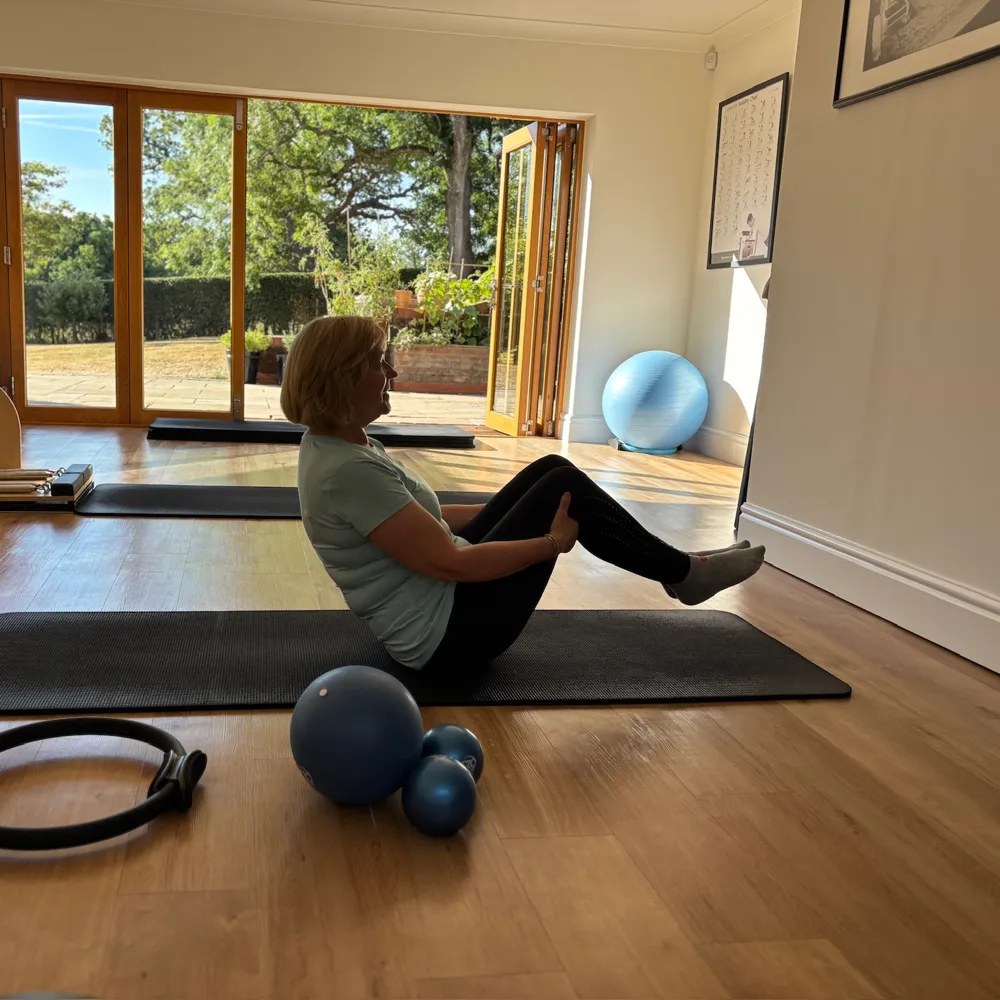
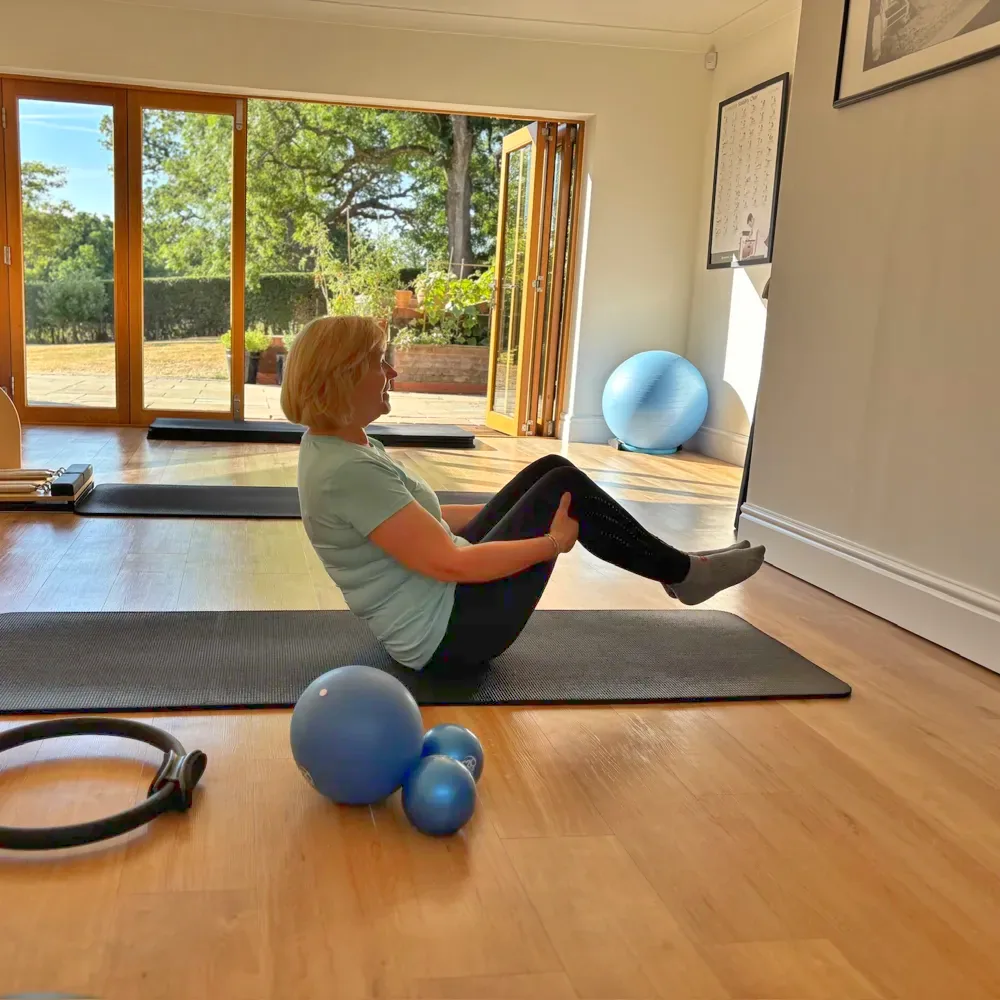
Square the film shelf, lead on Suzannah, and take the studio inside
Client Stories loses its weave: the shelf's second and fourth columns
hung a step lower than the first and third, and the films now sit in a
rigid parallel grid. A row of clients' faces is a set of equals. The
reveal delays still settle each row left to right, which is the rhythm
the stagger was reaching for and costs the alignment nothing.

Suzannah moves to the head of the list, which is the lead slot and so
the head of the page.

The Studham Studio gallery gains the treatment couch as a fifth frame —
that set is the room, and it showed only mats, machines and the outside
of the building while the lead sentence is about the space turning from
a Pilates studio into a treatment clinic.

The studio hero is now the room itself rather than the way into it: the
mats laid out with the magic circles, doors closed onto the terrace,
crop back to centre since the 62% nudge belonged to the old photograph.
Its 1600 and 2400 candidates are Upscayl remacri-4x from the 1000, the
one thing on the page not straight off a camera and marked as such in
the source — the original is not in the repo and was not found on this
machine.

The mat photograph is lightened, and by region rather than by curve. It
is shot into the open doors, so the camera exposed for the daylight and
left the near half of the room in shade. scripts/shadow-lift.py drives
the lift off a blurred luminance map, so the shade is raised and the
garden and sunlit wall are left where the camera put them.

diff --git a/src/site-content.js b/src/site-content.js
@@ -1144,6 +1144,35 @@ function buildPilatesContinuousPage() {
                one session, the plate included in the count. -->
           <div class="pilates-feature__media pilates-gallery" style="--frame-count: 4" data-reveal data-drift data-equipment-gallery>
             <figure class="pilates-feature__shot pilates-gallery__plate">
+              <!-- Lightened 21 Aug 2026 at Harry's request. Shot straight
+                   into the open garden doors, so the camera exposed for the
+                   daylight behind her and left the client, the mat and the
+                   whole near half of the room sitting in shadow.
+
+                   Not a global curve. A first pass at gamma 1.25 lifted the
+                   whole frame, which does brighten her but pays for it by
+                   washing the garden and the sunlit wall that were correctly
+                   exposed already. This is scripts/shadow-lift.py at 0.85:
+                   the lift is driven by a heavily blurred luminance map, so
+                   its strength follows which REGION of the room is in shade
+                   rather than which pixel is dark. Deep shade gets a gamma
+                   near 1.85, anything already mid-bright gets nothing, and
+                   the two are joined by a smoothstep. Blur radius is 4.5% of
+                   the frame — wide enough that no halo forms round the door
+                   frames, which is the failure mode of a tighter mask.
+
+                   Result: the near floor, her face and the near mats come
+                   up; the garden, the lit doorway and the sunlit wall are
+                   left where the camera put them. The darkest 5% of the
+                   frame moved from 14 to 32 while highlight clipping went
+                   0.58% to 0.71%. Stopped at 0.85 — 1.05 was tried and
+                   starts greying the mats.
+
+                   Applied to all three files at the same strength, and the
+                   mask radius is a fraction of the frame rather than a fixed
+                   pixel count, so every size gets the same treatment and the
+                   srcset cannot switch brightness mid-page. Originals are in
+                   git if it wants backing off. -->
               <img data-drift-lag="0.025" data-gallery-plate data-small="/images/pilates/mat-ab-curl-500.webp" data-large="/images/pilates/mat-ab-curl-1000.webp" data-xl="/images/pilates/mat-ab-curl-1536.webp" data-xl-width="1536" src="/images/pilates/mat-ab-curl-1000.webp" srcset="/images/pilates/mat-ab-curl-500.webp 500w, /images/pilates/mat-ab-curl-1000.webp 1000w, /images/pilates/mat-ab-curl-1536.webp 1536w" sizes="(max-width: 960px) 92vw, 52vw" alt="A client holding a curled sit up position on the mat, legs lifted, the studio's garden doors folded open behind her" width="1000" height="1000" loading="lazy">
               <button class="pilates-gallery__arrow pilates-gallery__arrow--prev" type="button" data-gallery-step="-1" aria-label="Previous mat Pilates photograph" hidden>←</button>
               <button class="pilates-gallery__arrow pilates-gallery__arrow--next" type="button" data-gallery-step="1" aria-label="Next mat Pilates photograph" hidden>→</button>
@@ -1531,23 +1560,52 @@ function buildStudioContinuousPage() {
       "The NJH Sports Therapy and Pilates studio in Studham, near Whipsnade.",
     canonical: "/studio",
     html: `<div class="clinics-longform">
-      <!-- The hero is the terrace photograph: in through the folded-open
-           doors from the same spot the room is entered. It stood alone here
-           until a looping cut of NJH's promotional film was laid over it, and
-           it stands alone again — the film is out at Harry's request. If it is
-           ever wanted back, the markup was one <video class="clinics-hero__reel">
-           over this <img>, driven by initStudioReel(); the encoded files are
-           still in public/videos (studio-tour.mp4 and the 640 phone cut).
+      <!-- The hero is the room laid out for a class, seen from the far end
+           with a magic circle and weighted balls on each mat and the folding
+           doors closed onto the terrace. Harry's pick, 21 Aug 2026. It
+           replaces the terrace photograph, the view in through the folded
+           doors from outside. That view of the building is not lost: the
+           gallery below closes on studio-dusk, the same terrace after dark.
+           The hero's own files (studio-hero-800/1600/2400.webp) are now
+           referenced from nowhere and kept in public/images against the day
+           somebody wants the outside back at the top.
 
-           The still ships as its whole 4:3 frame rather than pre-cropped:
+           Inside beats outside at the top of a page about a room. The old
+           hero showed a visitor the doors they would walk through; this one
+           shows them what is on the other side of them, which is the thing
+           they are deciding about.
+
+           Before that it carried a looping cut of NJH's promotional film,
+           out at Harry's request. If it is ever wanted back, the markup was
+           one <video class="clinics-hero__reel"> over this <img>, driven by
+           initStudioReel(); the encoded files are still in public/videos
+           (studio-tour.mp4 and the 640 phone cut).
+
+           The still ships as its whole square frame rather than pre-cropped:
            it is object-fit: cover, so every viewport cuts its own window, and
-           4:3 has the height a phone's tall window needs where a 16:9 pre-crop
-           would have run out. The stylesheet nudges that window right of
-           centre so a narrow screen keeps the lit doorway rather than the tree
-           beside it — see .clinics-hero__still. -->
+           1:1 has even more of the height a phone's tall window needs than
+           the 4:3 terrace frame did. The stylesheet's right-of-centre nudge
+           went with the old photograph — see .clinics-hero__still.
+
+           RESOLUTION, and the one thing on this page that is not straight
+           off a camera. The photograph exists at 1000px and no larger — the
+           original is not in the repo and was not found on this machine, and
+           1000px full bleed is soft on a wide desktop. So the 1600 and 2400
+           candidates in the srcset are Upscayl remacri-4x from the 1000,
+           resampled down from its 4000px output, which is the same treatment
+           the site's other undersized photographs have had.
+
+           This is the exception to the no-upscaling line the home page's
+           studio band states, and it is marked here rather than quietly
+           taken: a hero is the one frame on the page big enough for the
+           difference to show. The room takes it well — flat walls, a plain
+           floor, no faces and no fine text in the frame — but it is still a
+           guess at detail the camera recorded and nobody has. If the original
+           turns up, re-cut 1600 and 2400 from it, overwrite these two files
+           and delete this paragraph. -->
       <section class="clinics-hero" id="overview" aria-labelledby="clinics-title">
         <div class="clinics-hero__media" aria-hidden="true">
-          <img class="clinics-hero__still" src="/images/studio-hero-1600.webp" srcset="/images/studio-hero-800.webp 800w, /images/studio-hero-1600.webp 1600w, /images/studio-hero-2400.webp 2400w" sizes="100vw" alt="" width="1600" height="1248" fetchpriority="high" />
+          <img class="clinics-hero__still" src="/images/pilates/room-rings-1600.webp" srcset="/images/pilates/room-rings-500.webp 500w, /images/pilates/room-rings-1000.webp 1000w, /images/pilates/room-rings-1600.webp 1600w, /images/pilates/room-rings-2400.webp 2400w" sizes="100vw" alt="" width="1600" height="1600" fetchpriority="high" />
           <div class="clinics-hero__scrim"></div>
         </div>
         <div class="clinics-hero__inner">
@@ -1600,15 +1658,30 @@ function buildStudioContinuousPage() {
             </dl>
             <a class="pilates-arrow-link" href="#reformer">See what is in the room <span>→</span></a>
           </div>
-          <!-- The third gallery: four photographs of the room itself, the
-               corner row three frames like the Reformer's below. The mat
-               layouts from either end came first; the shoot of August 2026
-               added the room seen from the open doors with both machines
-               standing in it, and the building from the terrace at dusk —
-               the hero's view, after dark. Square like every frame in these
-               galleries: the dusk photograph is cut down to the doorway and
-               the lit room, the fuchsias kept as its near corner. -->
-          <div class="pilates-feature__media pilates-gallery" style="--frame-count: 4" data-reveal data-drift data-equipment-gallery>
+          <!-- The third gallery: five photographs of the room itself, the
+               corner row four frames. The mat layouts from either end came
+               first; the shoot of August 2026 added the room seen from the
+               open doors with both machines standing in it, and the building
+               from the terrace at dusk — the hero's view, after dark. Square
+               like every frame in these galleries: the dusk photograph is cut
+               down to the doorway and the lit room, the fuchsias kept as its
+               near corner.
+
+               The treatment couch joined the row on 21 Aug 2026. This gallery
+               is the room, not the mat work, and a set that showed only mats,
+               machines and the outside of the building left out the half of
+               the room the lead sentence above is about — the space turning
+               from a Pilates studio into a treatment clinic.
+
+               couch-posters, Harry's pick: the couch made up with its rolled
+               towels, taken from far enough back to carry the charts, the
+               sink, the window and the clock. It is the widest, most made-up
+               view of the treatment corner, which is what this row wants —
+               #physio-couch below leads on couch-window, the tighter one, so
+               the two rows are not the same photograph twice. Its file lives
+               in public/images/therapy with the rest of the couch's, not in
+               pilates with the room's. -->
+          <div class="pilates-feature__media pilates-gallery" style="--frame-count: 5" data-reveal data-drift data-equipment-gallery>
             <figure class="pilates-feature__shot pilates-gallery__plate">
               <img data-drift-lag="0.025" data-gallery-plate data-small="/images/pilates/room-rings-500.webp" data-large="/images/pilates/room-rings-1000.webp" data-xl="/images/pilates/room-rings-1000.webp" data-xl-width="1000" src="/images/pilates/room-rings-1000.webp" srcset="/images/pilates/room-rings-500.webp 500w, /images/pilates/room-rings-1000.webp 1000w" sizes="(max-width: 960px) 92vw, 52vw" alt="The room from the other end, mats laid out with a magic circle and weighted balls on each, the folding doors closed onto the terrace" width="1000" height="1000" loading="lazy">
               <button class="pilates-gallery__arrow pilates-gallery__arrow--prev" type="button" data-gallery-step="-1" aria-label="Previous photograph of the room" hidden>←</button>
@@ -1620,6 +1693,9 @@ function buildStudioContinuousPage() {
               </button>
               <button type="button" class="pilates-gallery__pick" data-gallery-pick>
                 <img data-small="/images/pilates/room-machines-500.webp" data-large="/images/pilates/room-machines-1000.webp" data-xl="/images/pilates/room-machines-1536.webp" data-xl-width="1536" src="/images/pilates/room-machines-500.webp" alt="The room from the open garden doors, mats down the centre and the Reformer and Stability Chair standing ready beyond them" width="500" height="500" loading="lazy">
+              </button>
+              <button type="button" class="pilates-gallery__pick" data-gallery-pick>
+                <img data-small="/images/therapy/couch-posters-500.webp" data-large="/images/therapy/couch-posters-1000.webp" data-xl="/images/therapy/couch-posters-1536.webp" data-xl-width="1536" src="/images/therapy/couch-posters-500.webp" alt="The room set up for treatment, the hydraulic couch made up with rolled towels, the muscular and skeletal charts on the wall and the clock above the window" width="500" height="500" loading="lazy">
               </button>
               <button type="button" class="pilates-gallery__pick" data-gallery-pick>
                 <img data-small="/images/pilates/studio-dusk-500.webp" data-large="/images/pilates/studio-dusk-1000.webp" data-xl="/images/pilates/studio-dusk-1536.webp" data-xl-width="1536" src="/images/pilates/studio-dusk-500.webp" alt="The studio from the terrace at dusk, the garden doors folded open onto the lit room, fuchsias in the foreground" width="500" height="500" loading="lazy">

diff --git a/src/style.css b/src/style.css
@@ -5359,12 +5359,16 @@ body:has(.home-hero, .cv__hero, .clinics-hero)
   pointer-events: none;
 }
 
-/* The photograph ships as its full 4:3 frame and this is where each screen's
-   window is cut. 62% and not center: a phone's tall window keeps barely a
-   third of the width, and dead centre that third is mostly the bay tree —
-   biased right it is the open doorway with the lit room behind it, which is
-   the picture. Desktop shows the full width either way, so the bias costs
-   the wide screens nothing. */
+/* The photograph ships as its full frame and this is where each screen's
+   window is cut.
+
+   Centred, since 21 Aug 2026. It used to be 62%, which belonged to the
+   terrace photograph: a phone's tall window keeps barely a third of the
+   width, dead centre that third was mostly the bay tree, and biased right it
+   was the open doorway with the lit room behind it. The room photograph that
+   replaced it is composed on its own centre line — the garden doors dead
+   ahead, mats running away on both sides — so the same bias would now crop
+   the doors off one edge and hand the type nothing in exchange. */
 .clinics-hero__still {
   position: absolute;
   display: block;
@@ -5372,7 +5376,7 @@ body:has(.home-hero, .cv__hero, .clinics-hero)
   height: 100%;
   inset: 0;
   object-fit: cover;
-  object-position: 62% 50%;
+  object-position: 50% 50%;
 }
 
 /* Three layers, each answering something the photograph does not promise on
@@ -7083,35 +7087,22 @@ body:has(.home-hero, .cv__hero, .clinics-hero)
   transition-delay: 330ms;
 }
 
-/* ---- The weave ----
+/* ---- Straight rows ----
 
-   Four stills in a dead-straight row, then four more directly beneath them,
-   is a contact sheet: eight identical rectangles on a grid, and the eye reads
-   the GRID rather than any of the faces in it. Dropping the second and fourth
-   columns breaks the top line, and once the top line is broken each still is
-   its own object again.
+   The shelf used to weave: at four across, the second and fourth columns hung
+   a little lower than the first and third, so the top line was broken and each
+   still read as its own object rather than as one cell of a contact sheet.
 
-   It is set on the columns rather than on alternate cards so that both rows
-   drop in the same places — two columns standing, two hung a little lower,
-   the same shape twice. Alternating card-by-card would put the drop under a
-   different face on the second row and read as a mistake rather than as a
-   rhythm.
+   Off at Harry's request, 21 Aug 2026. The films now sit in a rigid parallel
+   grid — every card on the same baseline, rows squared to each other, columns
+   squared down the page. A row of clients' faces is a set of equals, and
+   nudging half of them out of line is the layout having an opinion about them
+   that nothing in the films supports.
 
-   Only at four across, where "second and fourth" is a fact about the layout.
-   Below that the count changes and the same rule would draw a diagonal.
-
-   The measure is the one the studio's film pair already staggers by — see
-   .clinics-film__figure--set. Two staggered pairs on one site should be
-   staggered by the same amount.
-
-   margin, not transform: .films__card carries the reveal lift as a transform,
-   and a second one here would be the two of them fighting over the property.
-   The margin is outside that argument. */
-@media (min-width: 900px) {
-  .films__shelf .films__card:nth-child(2n) {
-    margin-block-start: clamp(1.75rem, 1rem + 2.5vw, 3rem);
-  }
-}
+   Nothing replaces the rule: the grid was already flat underneath it, and the
+   card-by-card reveal delays above still settle the row left to right, which
+   is the rhythm the weave was reaching for and the one that costs the
+   alignment nothing. */
 
 /* A still lifts under the pointer — a small one, the distance a card would
    move if you picked it off the shelf, not a hover effect with an opinion.

diff --git a/src/films.js b/src/films.js
@@ -80,6 +80,14 @@
    ============================================================ */
 export const FILMS = [
   {
+    /* The lead, at Harry's call on 21 Aug 2026. Shot 13 Aug 2026 (Harry's
+       IMG_1152.MOV). Blurb to come from NJH — see the note above: it is what
+       she actually says on camera, not a caption invented for the still. */
+    name: "Suzannah",
+    poster: "/images/films/client-story-4.webp",
+    sources: [{ src: "/videos/films/client-story-4.mp4" }],
+  },
+  {
     name: "Jo",
     poster: "/images/films/client-story-1.webp",
     sources: [{ src: "/videos/films/client-story-1.mp4" }],
@@ -95,14 +103,6 @@ export const FILMS = [
     sources: [{ src: "/videos/films/client-story-3.mp4" }],
   },
 
-  {
-    /* Shot 13 Aug 2026 (Harry's IMG_1152.MOV). Blurb to come from NJH — see
-       the note above: it is what she actually says on camera, not a caption
-       invented for the still. */
-    name: "Suzannah",
-    poster: "/images/films/client-story-4.webp",
-    sources: [{ src: "/videos/films/client-story-4.mp4" }],
-  },
 
   /* ---- Five films delivered 20 Aug 2026 (Harry's "Client videos" folder:
      IMG_1294, IMG_1312, IMG_1315, IMG_1320; and "Merge these 2":
@@ -125,11 +125,12 @@ export const FILMS = [
      top of this file. captionText renders the name alone until then, which
      is a caption doing less than it could rather than a broken one.
 
-     They sit below Jo, Julia and Isabella, who Harry moved to the head of
-     the shelf on 20 Aug 2026 so the page opens on the three earliest films.
-     The top of the list is the lead and the lead IS the head of the page, so
-     which film stands there is an editorial call rather than a mechanical
-     one — the order they arrived in does not settle it.
+     They sit below Suzannah, Jo, Julia and Isabella. Harry moved the three
+     earliest to the head of the shelf on 20 Aug 2026, and put Suzannah above
+     them on 21 Aug 2026, so hers is the film the page opens on. The top of
+     the list is the lead and the lead IS the head of the page, so which film
+     stands there is an editorial call rather than a mechanical one — the
+     order they arrived in does not settle it.
 
      Consent, per the block at the top of this file, is written, specific and
      withdrawable — not a verbal yes in the studio. Nothing above was taken

diff --git a/scripts/shadow-lift.py b/scripts/shadow-lift.py
@@ -1,0 +1,57 @@
+"""Shadow-targeted lift: strong where the room is dark, nothing where it is bright.
+
+The mask is built from a heavily blurred luminance map, so it follows the big
+lit/unlit regions of the room rather than individual dark pixels — a black mat
+sitting in sunlight is left alone, the shaded near half of the floor is lifted.
+Large blur radius keeps the transition wide enough that no halo appears round
+the door frames.
+"""
+import sys
+import numpy as np
+from PIL import Image, ImageFilter
+
+def lift(src, dst, strength, sat=1.05, quality=82):
+    im = Image.open(src).convert("RGB")
+    a = np.asarray(im).astype(np.float32) / 255.0
+    # Rec.709 luma
+    L = a[..., 0] * 0.2126 + a[..., 1] * 0.7152 + a[..., 2] * 0.0722
+
+    # Low-frequency luminance: which REGION is dark, not which pixel.
+    sigma = max(im.size) * 0.045
+    base = np.asarray(
+        Image.fromarray((L * 255).astype(np.uint8)).filter(
+            ImageFilter.GaussianBlur(radius=sigma)
+        )
+    ).astype(np.float32) / 255.0
+
+    # Mask: 1 in deep shade, tapering to 0 by the time a region is mid-bright.
+    lo, hi = 0.18, 0.62
+    m = np.clip((hi - base) / (hi - lo), 0.0, 1.0)
+    m = m * m * (3 - 2 * m)  # smoothstep
+
+    # Per-pixel gamma, varying with the mask.
+    g = 1.0 + strength * m
+    Lg = np.power(np.clip(L, 1e-4, 1.0), 1.0 / g)
+
+    # Re-apply the new luminance, keeping hue and relative colour.
+    gain = (Lg / np.clip(L, 1e-4, 1.0))[..., None]
+    out = a * gain
+
+    # Lifting flattens colour; put a little back, and roll off near white so
+    # the garden does not go poster-ish.
+    grey = out[..., 0] * 0.2126 + out[..., 1] * 0.7152 + out[..., 2] * 0.0722
+    out = grey[..., None] + (out - grey[..., None]) * sat
+
+    out = np.clip(out, 0, 1)
+    Image.fromarray((out * 255 + 0.5).astype(np.uint8)).save(
+        dst, quality=quality, method=6
+    )
+    return out
+
+if __name__ == "__main__":
+    src, dst, strength = sys.argv[1], sys.argv[2], float(sys.argv[3])
+    o = lift(src, dst, strength)
+    a = np.asarray(Image.open(src).convert("RGB")).astype(float) / 255
+    print(f"{dst}  mean {a.mean()*255:.1f} -> {o.mean()*255:.1f}  "
+          f"p5 {np.percentile(a,5)*255:.1f} -> {np.percentile(o,5)*255:.1f}  "
+          f"clip255 {(a>=0.996).mean()*100:.2f}% -> {(o>=0.996).mean()*100:.2f}%")
